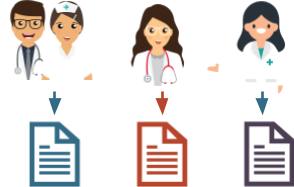
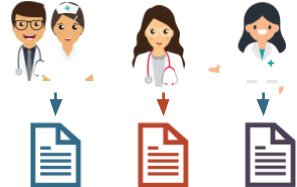
Add new images and resize them so they are not blurry

diff --git a/shared/src/commonMain/kotlin/ui/followup_care/FollowupCareCommunicationScreen.kt b/shared/src/commonMain/kotlin/ui/followup_care/FollowupCareCommunicationScreen.kt
@@ -265,7 +265,7 @@ data class FollowupCareCommunicationScreen(
                         painter = painterResource("followup_care/care_laptop_doctors.png"),
                         contentDescription = "National Electronic Health Records",
                         contentScale = ContentScale.FillWidth,
-                        modifier = Modifier.fillMaxWidth().padding(8.dp,4.dp)
+                        modifier = Modifier.fillMaxWidth(0.85f).padding(8.dp,4.dp)
                     )
 
                 }
@@ -380,7 +380,7 @@ data class FollowupCareCommunicationScreen(
                             Image(
                                 painter = painterResource("followup_care/care_pharmacist_calling.png"),
                                 contentDescription = "Pharmacist calling polyclinic doctor and oncologist",
-                                modifier = Modifier.fillMaxWidth(0.75f),
+                                modifier = Modifier.fillMaxWidth(0.65f),
                                 contentScale = ContentScale.FillWidth
                             )
 
@@ -453,7 +453,7 @@ data class FollowupCareCommunicationScreen(
                             painter = painterResource("followup_care/care_laptop_doctors.png"),
                             contentDescription = "National Electronic Health Records",
                             contentScale = ContentScale.FillWidth,
-                            modifier = Modifier.fillMaxWidth(0.6f).padding(8.dp,4.dp)
+                            modifier = Modifier.fillMaxWidth(0.4f).padding(8.dp,4.dp)
                         )
 
                 }
@@ -489,8 +489,8 @@ data class FollowupCareCommunicationScreen(
 
                     BoxWithConstraints{
                         val maxWidth = this.maxWidth
-                        val clockwiseArrowWidth = maxWidth.value*0.15f
-                        val counterArrowWidth = maxWidth.value*0.08f
+                        val clockwiseArrowWidth = maxWidth.value*0.12f
+                        val counterArrowWidth = maxWidth.value*0.05f
                         println(clockwiseArrowWidth.dp)
                         println(counterArrowWidth.dp)
                         var imageHeight by remember{ mutableStateOf(0f)}
@@ -498,7 +498,7 @@ data class FollowupCareCommunicationScreen(
                             painter = painterResource("followup_care/care_information_sharing.png"),
                             contentDescription = "Usual Care information sharing",
                             contentScale = ContentScale.FillWidth,
-                            modifier = Modifier.fillMaxWidth(0.6f).padding(8.dp,4.dp).onGloballyPositioned {
+                            modifier = Modifier.fillMaxWidth(0.4f).padding(8.dp,4.dp).onGloballyPositioned {
                                     coordinates ->  imageHeight = coordinates.size.height.toFloat()
                             }
                         )
@@ -512,13 +512,13 @@ data class FollowupCareCommunicationScreen(
                             Image(
                                 painter = painterResource("followup_care/care_clockwise_arrow.png"),
                                 contentDescription = "Clockwise Arrow",
-                                modifier = Modifier.padding(start = clockwiseArrowWidth.dp,top = arrowHeight.dp).fillMaxWidth(0.25f),
+                                modifier = Modifier.padding(start = clockwiseArrowWidth.dp,top = arrowHeight.dp).fillMaxWidth(0.15f),
                                 contentScale = ContentScale.FillWidth
                             )
                             Image(
                                 painter = painterResource("followup_care/care_counter_clock_arrow.png"),
                                 contentDescription = "Counter Clockwise Arrow",
-                                modifier = Modifier.padding(start = counterArrowWidth.dp,top = arrowHeight.dp).fillMaxWidth(0.22f),
+                                modifier = Modifier.padding(start = counterArrowWidth.dp,top = arrowHeight.dp).fillMaxWidth(0.12f),
                                 contentScale = ContentScale.FillWidth
                             )
                         }
@@ -552,13 +552,13 @@ data class FollowupCareCommunicationScreen(
                         itemVisible = true
                     }
 
-                    Column(horizontalAlignment = Alignment.CenterHorizontally){
+                    Column(horizontalAlignment = Alignment.CenterHorizontally, modifier = Modifier.fillMaxWidth(0.4f)){
 
                         Image(
                             painter = painterResource("followup_care/care_referral.png"),
                             contentDescription = "Usual Care information sharing",
                             contentScale = ContentScale.FillWidth,
-                            modifier = Modifier.fillMaxWidth(0.6f).padding(8.dp,4.dp)
+                            modifier = Modifier.fillMaxWidth().padding(8.dp,4.dp)
                         )
 
                         AnimatedVisibility(
@@ -568,7 +568,7 @@ data class FollowupCareCommunicationScreen(
                             Image(
                                 painter = painterResource("followup_care/care_pharmacist_calling.png"),
                                 contentDescription = "Pharmacist calling polyclinic doctor and oncologist",
-                                modifier = Modifier.fillMaxWidth(0.45f),
+                                modifier = Modifier.fillMaxWidth(0.70f),
                                 contentScale = ContentScale.FillWidth
                             )
 
@@ -632,7 +632,7 @@ data class FollowupCareCommunicationScreen(
                             painter = painterResource("followup_care/care_laptop_doctors.png"),
                             contentDescription = "National Electronic Health Records",
                             contentScale = ContentScale.FillWidth,
-                            modifier = Modifier.fillMaxWidth().padding(8.dp,4.dp)
+                            modifier = Modifier.fillMaxWidth(0.85f).padding(8.dp,4.dp)
                         )
 
                 }
@@ -667,20 +667,8 @@ data class FollowupCareCommunicationScreen(
 
                     Row(modifier = Modifier.fillMaxWidth(), horizontalArrangement = Arrangement.SpaceEvenly, verticalAlignment = Alignment.Top){
                         Image(
-                            painter = painterResource("followup_care/care_oncologist_nurse.png"),
-                            contentDescription = "Usual Care information sharing",
-                            contentScale = ContentScale.FillWidth,
-                            modifier = Modifier.fillMaxWidth(0.37f).padding(8.dp,0.dp)
-                        )
-                        Image(
-                            painter = painterResource("followup_care/care_doctor.png"),
-                            contentDescription = "Usual Care information sharing",
-                            contentScale = ContentScale.FillWidth,
-                            modifier = Modifier.fillMaxWidth(0.4f).padding(8.dp,0.dp)
-                        )
-                        Image(
-                            painter = painterResource("followup_care/care_pharmacist.png"),
-                            contentDescription = "Usual Care information sharing",
+                            painter = painterResource("followup_care/care_doctor_pharmacist_nurse.png"),
+                            contentDescription = "Three medical professionals",
                             contentScale = ContentScale.FillWidth,
                             modifier = Modifier.fillMaxWidth(0.9f).padding(8.dp,0.dp)
                         )
@@ -708,7 +696,7 @@ data class FollowupCareCommunicationScreen(
                             painter = painterResource("followup_care/care_three_documents.png"),
                             contentDescription = "Three documents",
                             contentScale = ContentScale.FillWidth,
-                            modifier = Modifier.fillMaxWidth(0.95f).padding(8.dp,4.dp)
+                            modifier = Modifier.fillMaxWidth(0.85f).padding(8.dp,4.dp)
                         )
                     }
 
@@ -918,24 +906,12 @@ data class FollowupCareCommunicationScreen(
                         itemVisible = true
                     }
 
-                    Row(modifier = Modifier.fillMaxWidth(0.4f), horizontalArrangement = Arrangement.SpaceEvenly, verticalAlignment = Alignment.Top){
+                    Row(modifier = Modifier.fillMaxWidth(), horizontalArrangement = Arrangement.SpaceEvenly, verticalAlignment = Alignment.Top){
                         Image(
-                            painter = painterResource("followup_care/care_oncologist_nurse.png"),
-                            contentDescription = "Usual Care information sharing",
+                            painter = painterResource("followup_care/care_doctor_pharmacist_nurse.png"),
+                            contentDescription = "Three medical professionals",
                             contentScale = ContentScale.FillWidth,
-                            modifier = Modifier.fillMaxWidth(0.37f).padding(8.dp,4.dp)
-                        )
-                        Image(
-                            painter = painterResource("followup_care/care_doctor.png"),
-                            contentDescription = "Usual Care information sharing",
-                            contentScale = ContentScale.FillWidth,
-                            modifier = Modifier.fillMaxWidth(0.4f).padding(8.dp,4.dp)
-                        )
-                        Image(
-                            painter = painterResource("followup_care/care_pharmacist.png"),
-                            contentDescription = "Usual Care information sharing",
-                            contentScale = ContentScale.FillWidth,
-                            modifier = Modifier.fillMaxWidth(0.9f).padding(8.dp,4.dp)
+                            modifier = Modifier.fillMaxWidth(0.45f).padding(8.dp,0.dp)
                         )
 
                     }
@@ -1054,7 +1030,7 @@ data class FollowupCareCommunicationScreen(
                             Image(
                                 painter = painterResource("followup_care/care_pharmacist_calling.png"),
                                 contentDescription = "Pharmacist calling polyclinic doctor and oncologist",
-                                modifier = Modifier.fillMaxWidth(0.75f),
+                                modifier = Modifier.fillMaxWidth(0.70f),
                                 contentScale = ContentScale.FillWidth
                             )
 
